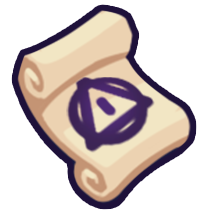
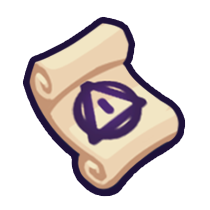
feat(ui): RGBA generator sprites, grey generator cell bg, always-visible charge badge
Replace gen_spawner1-4 PNGs with RGBA versions from the Unity project
(transparent corners instead of baked-in white). Give generator cells
a dark-grey background (#7a7a82) that also sits behind the image so
the tint shows through transparent pixels. Remove the charged pulse
animation. Keep charge badge visible even at 0 charges (grey when
empty, green when > 0). Separate the debug/system button row visually
with margin-top + top border.

diff --git a/src/ui/components/GridBoard.tsx b/src/ui/components/GridBoard.tsx
@@ -428,7 +428,6 @@ export function GridBoard() {
                 else cellRefs.current.delete(index);
               }}
               className={getCellClassName(index, entity)}
-              style={entity?.kind === 'generator' ? { backgroundColor: '#a0a0a0' } : undefined}
               onPointerDown={(e) => handlePointerDown(e, index)}
               onClick={(e) => handleCellClick(e, index)}
               onDoubleClick={() => handleCellDoubleClick(index)}
@@ -448,29 +447,27 @@ export function GridBoard() {
                       <>
                         <img src={img} alt={entityLabel(entity)} className="creature-image" draggable={false} />
                         <span className="cell-badge">{badge}</span>
-                        {chargeCount > 0 && (
-                          <span
-                            className="generator-charge-badge"
-                            style={{
-                              position: 'absolute',
-                              top: '4px',
-                              right: '4px',
-                              backgroundColor: '#4CAF50',
-                              color: 'white',
-                              borderRadius: '50%',
-                              width: '24px',
-                              height: '24px',
-                              display: 'flex',
-                              alignItems: 'center',
-                              justifyContent: 'center',
-                              fontSize: '14px',
-                              fontWeight: 'bold',
-                              boxShadow: '0 2px 4px rgba(0,0,0,0.3)',
-                            }}
-                          >
-                            {chargeCount}
-                          </span>
-                        )}
+                        <span
+                          className="generator-charge-badge"
+                          style={{
+                            position: 'absolute',
+                            top: '4px',
+                            right: '4px',
+                            backgroundColor: chargeCount > 0 ? '#4CAF50' : '#777',
+                            color: 'white',
+                            borderRadius: '50%',
+                            width: '24px',
+                            height: '24px',
+                            display: 'flex',
+                            alignItems: 'center',
+                            justifyContent: 'center',
+                            fontSize: '14px',
+                            fontWeight: 'bold',
+                            boxShadow: '0 2px 4px rgba(0,0,0,0.3)',
+                          }}
+                        >
+                          {chargeCount}
+                        </span>
                       </>
                     );
                   } else if (entity.kind === 'rune') {

diff --git a/src/styles/global.css b/src/styles/global.css
@@ -195,29 +195,23 @@ body {
 }
 
 .cell-generator {
-  border-color: transparent;
-  background: linear-gradient(135deg, rgba(255, 180, 60, 0.22), rgba(90, 55, 20, 0.75));
+  border-color: rgba(0, 0, 0, 0.2);
+  background: #7a7a82;
   cursor: pointer;
 }
 
 .cell-generator:hover {
-  background: linear-gradient(135deg, rgba(255, 200, 80, 0.32), rgba(110, 70, 25, 0.85));
+  background: #6b6b73;
 }
 
 .cell-generator-charged {
-  border-color: transparent;
-  background: linear-gradient(135deg, rgba(130, 255, 130, 0.28), rgba(30, 80, 30, 0.85));
+  border-color: rgba(0, 0, 0, 0.2);
+  background: #7a7a82;
   cursor: pointer;
-  animation: pulse-bg 1.5s ease-in-out infinite;
 }
 
 .cell-generator-charged:hover {
-  background: linear-gradient(135deg, rgba(160, 255, 160, 0.4), rgba(40, 100, 40, 0.9));
-}
-
-@keyframes pulse-bg {
-  0%, 100% { filter: brightness(1); }
-  50% { filter: brightness(1.18); }
+  background: #6b6b73;
 }
 
 .cell-creature {
@@ -299,6 +293,11 @@ body {
 .cell-creature .creature-image,
 .drag-clone .creature-image {
   background: #ffffff;
+}
+
+.cell-generator .creature-image,
+.cell-generator-charged .creature-image {
+  background: #7a7a82;
 }
 
 .entity-label {
@@ -1177,6 +1176,10 @@ body {
   align-items: flex-start;
   gap: 8px;
   flex-wrap: wrap;
+  margin-top: 20px;
+  padding-top: 12px;
+  border-top: 1px solid rgba(255, 255, 255, 0.08);
+  opacity: 0.75;
 }
 .debug-row > .debug-panel {
   flex: 1;
